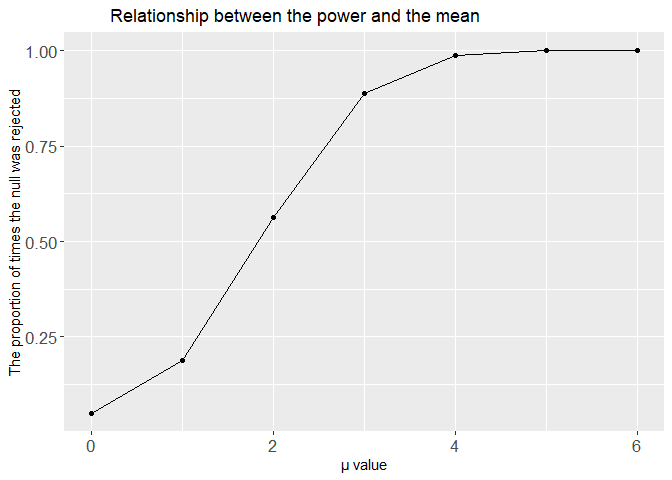
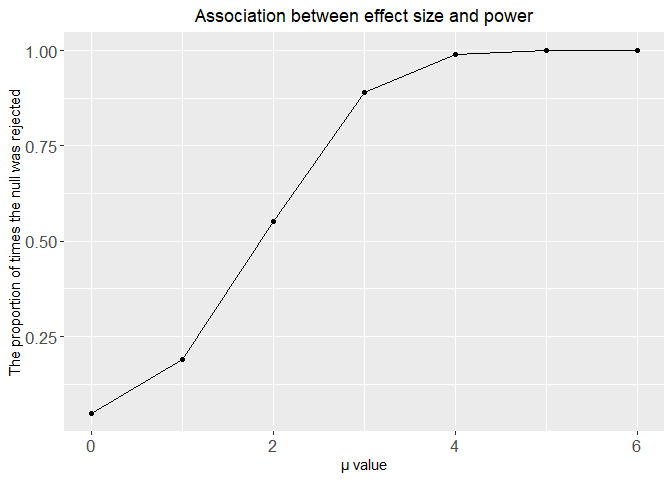
Add explanation + Knit

diff --git a/p8105_hw5_hw2861.md b/p8105_hw5_hw2861.md
@@ -27,6 +27,8 @@ largest American cities. The data included the location of the killing,
 whether an arrest was made and, in most cases, basic demographic
 information about each victim.
 
+**create Create a city_state variable**
+
 ``` r
 homicide_df = 
   read_csv("./Data/homicide-data.csv") %>% 
@@ -158,36 +160,28 @@ Baltimore_prop
     ##      <dbl>    <dbl>     <dbl>
     ## 1    0.646    0.628     0.663
 
+``` r
+saveRDS(Baltimore_prop, file = "./result/Baltimore_prop.rds")
+```
+
 **The proportion of homicides that are unsolved in “Baltimore, MD” is
 0.6455607 . The 95CI of the proportion is between 0.6275625 and
-0.6631599.**
+0.6631599.** I Saved the output to a RDS file.
 
 ### Now run prop.test for each of the cities in my dataset.
-
-**First, Create a function for prop.test**
-
-``` r
-prop_function = function(city) {
-  
- test= prop.test(
-     x= city %>% pull(unsolved_homicides), 
-     n= city %>% pull(total_homicides) )%>%
-    broom::tidy() %>%
-    select(estimate, conf.low,conf.high)
- 
- return(test)
-}
-```
 
 **Run the function for each of the cities**
 
 ``` r
 city_prop_df =
   homicides_df_number %>%
-  nest(data = total_homicides:unsolved_homicides) %>% 
-  mutate(result = map(data,prop_function)) %>% 
-  select(city_state, result)%>% 
-  unnest(result)
+  mutate(
+    tests_pre = map2(unsolved_homicides, total_homicides, prop.test),
+    test = map(tests_pre, broom::tidy)
+  ) %>%
+  select(city_state,test)%>%
+  unnest(test)%>%
+  select(city_state, estimate, conf.low, conf.high)
 ```
 
 ### Create a plot that shows the estimates and 95CIs for each city
@@ -211,7 +205,7 @@ city_prop_df %>%
 **In this problem, I will conduct a simulation to explore power in a
 one-sample t-test.**
 
-### First set the following design elements and generate 5000 datasets from the model given.
+### Set the following design elements and generate 5000 datasets from the model given.
 
 **I create a function for the t-test**
 
@@ -232,7 +226,7 @@ return(t_test)
 ```
 
 **Generate 5000 datasets from the model and repeat the above for
-different mu**
+different mu（0 to 6)**
 
 ``` r
 sim_results_df = 
@@ -259,8 +253,77 @@ sim_results_df %>%
   labs(
     x = "μ value",
     y = "The proportion of times the null was rejected",
-    title = "Relationship between the power and the mean")+
-  theme(plot.title = element_text(hjust = 0.2),axis.text = element_text(size = 13))
+    title = "Association between effect size and power")+
+  theme(plot.title = element_text(hjust = 0.5),axis.text = element_text(size = 13))
 ```
 
 ![](p8105_hw5_hw2861_files/figure-gfm/test_plot-1.png)<!-- -->
+
+**Describe the association between effect size and power**: \* At μ
+value \< 4, power increases as the effect size increases. \* At μ value
+\> 4, the power tends to stabilize at 1.
+
+### Make 2 plots about the average estimate of μ^
+
+The first plot: showing the average estimate of μ^ on the y axis and the
+true value of μ on the x axis. The second plot: showing the average
+estimate of μ^ only in samples for which the null was rejected on the y
+axis and the true value of μ on the x axis.
+
+``` r
+plot1=
+  sim_results_df %>%
+  group_by(mu)%>%
+   summarize(
+    total=n(),
+    mu_hat=mean(estimate))%>%
+    mutate(type = "Total sample")
+
+
+
+plot2= 
+  sim_results_df %>%
+  filter(p.value<0.05)%>%
+  group_by(mu)%>%
+   summarize(
+    total=n(),
+    mu_hat=mean(estimate))%>%
+    mutate(type = "Samples for which the null was rejected")
+    
+    
+combine = full_join(plot1, plot2)%>%
+   ggplot(aes(y = mu_hat, x = mu,color=type))+
+    geom_line(size=1.3) +
+    geom_point(size=2)+
+    labs(
+    x = "The true value of μ",
+    y = "The average estimate of μ^",
+    title = "Average estimate mean vs The true mean")+
+  theme(plot.title = element_text(hjust = 0.5),axis.text = element_text(size = 13),legend.position = "bottom",)
+```
+
+    ## Joining, by = c("mu", "total", "mu_hat", "type")
+
+``` r
+combine
+```
+
+![](p8105_hw5_hw2861_files/figure-gfm/unnamed-chunk-3-1.png)<!-- -->
+
+For which the null is rejected, When the true μ \>4, the sample average
+estimate of μ^ is approximately equal to the true value. when the true μ
+value is between 0 and 4(especially if true value = 1):They have
+relatively large differences.
+
+When the true μ \>4, the effect size is large enough and the proportion
+of times the null was rejected is nearly 1. At this point, the power is
+strong and almost all samples are included and consider as rejected
+null. The average estimated mean calculated from all 5000 datasets is
+close to the true mean.
+
+When the true 0 \<μ \<4, the effect size is Not large enough and the
+true μ is relatively close to 0. The proportion of times the null was
+rejected is low. At this point, many samples were screened out because
+they did not reject Null. Only a few number of datasets are included in
+our analysis (perhaps even just a few hundred).Then, average estimated
+mean is not an good representation of true value.
